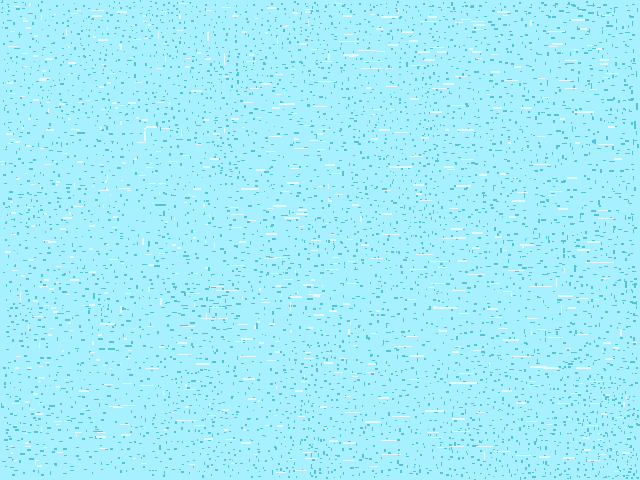
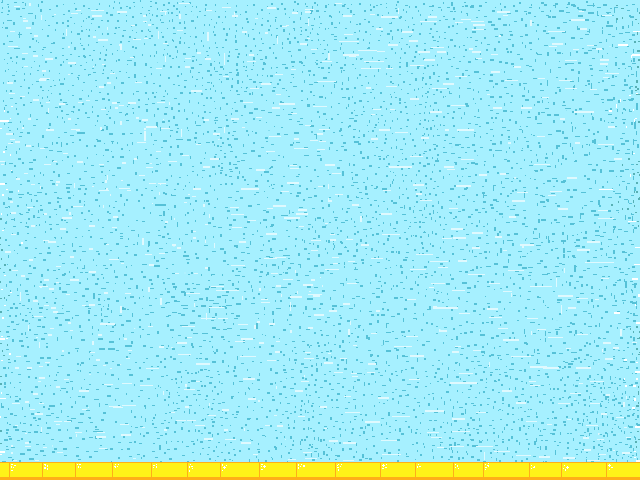
Updated the rocket and background

Changed region(s): [[0.0, 0.9375, 1.0, 1.0], [0.9688, 0.0938, 1.0, 0.125]]

diff --git a/src/scenes/Play.js b/src/scenes/Play.js
@@ -18,13 +18,15 @@ class Play extends Phaser.Scene {
         this.starfield = this.add.tileSprite(0, 0, 640, 480, 'starfield').setOrigin(0, 0);
 
         // green UI background
-        this.add.rectangle(0, borderUISize + borderPadding, game.config.width, borderUISize * 2, 0x00FF00).setOrigin(0, 0);
+        //this.add.rectangle(0, borderUISize + borderPadding, game.config.width, borderUISize * 2, 0x510000).setOrigin(0, 0);
+        //this.add.rectangle(0, 100, 100, 100, 0x510000).setOrigin(0, 0);
+
 
         // white borders
-        this.add.rectangle(0, 0, game.config.width, borderUISize, 0xFFFFFF).setOrigin(0, 0);
-        this.add.rectangle(0, game.config.height - borderUISize, game.config.width, borderUISize, 0xFFFFFF).setOrigin(0, 0);
-        this.add.rectangle(0, 0, borderUISize, game.config.height, 0xFFFFFF).setOrigin(0, 0);
-        this.add.rectangle(game.config.width - borderUISize, 0, borderUISize, game.config.height, 0xFFFFFF).setOrigin(0, 0);
+        this.add.rectangle(0, 0, game.config.width, borderUISize, 0x90F1FF).setOrigin(0, 0);
+        this.add.rectangle(0, game.config.height - borderUISize, game.config.width, borderUISize, 0x510000).setOrigin(0, 0);
+        this.add.rectangle(0, 0, borderUISize, game.config.height, 0x90F1FF).setOrigin(0, 0);
+        this.add.rectangle(game.config.width - borderUISize, 0, borderUISize, game.config.height, 0x90F1FF).setOrigin(0, 0);
 
         // add rocket (p1)
         this.p1Rocket = new Rocket(this, game.config.width/2, game.config.height - borderUISize - borderPadding, 'rocket').setOrigin(0.5, 0);
@@ -54,8 +56,8 @@ class Play extends Phaser.Scene {
         let scoreConfig = {
             fontFamily: 'Courier',
             fontSize: '28px',
-            backgroundColor: '#F3B141',
-            color: '#843605',
+            backgroundColor: '#510000',
+            color: '#F3B141',
             align: 'right',
             padding: {
             top: 5,

diff --git a/src/prefabs/Rocket.js b/src/prefabs/Rocket.js
@@ -5,7 +5,7 @@ class Rocket extends Phaser.GameObjects.Sprite {
   
       scene.add.existing(this);     // add to existing, displayList, updateList
       this.isFiring = false;        // tracks rocket's firing status
-      this.moveSpeed = 4;           // rocket speed = pixels per frame
+      this.moveSpeed = 5;           // rocket speed = pixels per frame
       this.sfxRocket = scene.sound.add('sfx_rocket'); // add rocket sfx
     }
 
